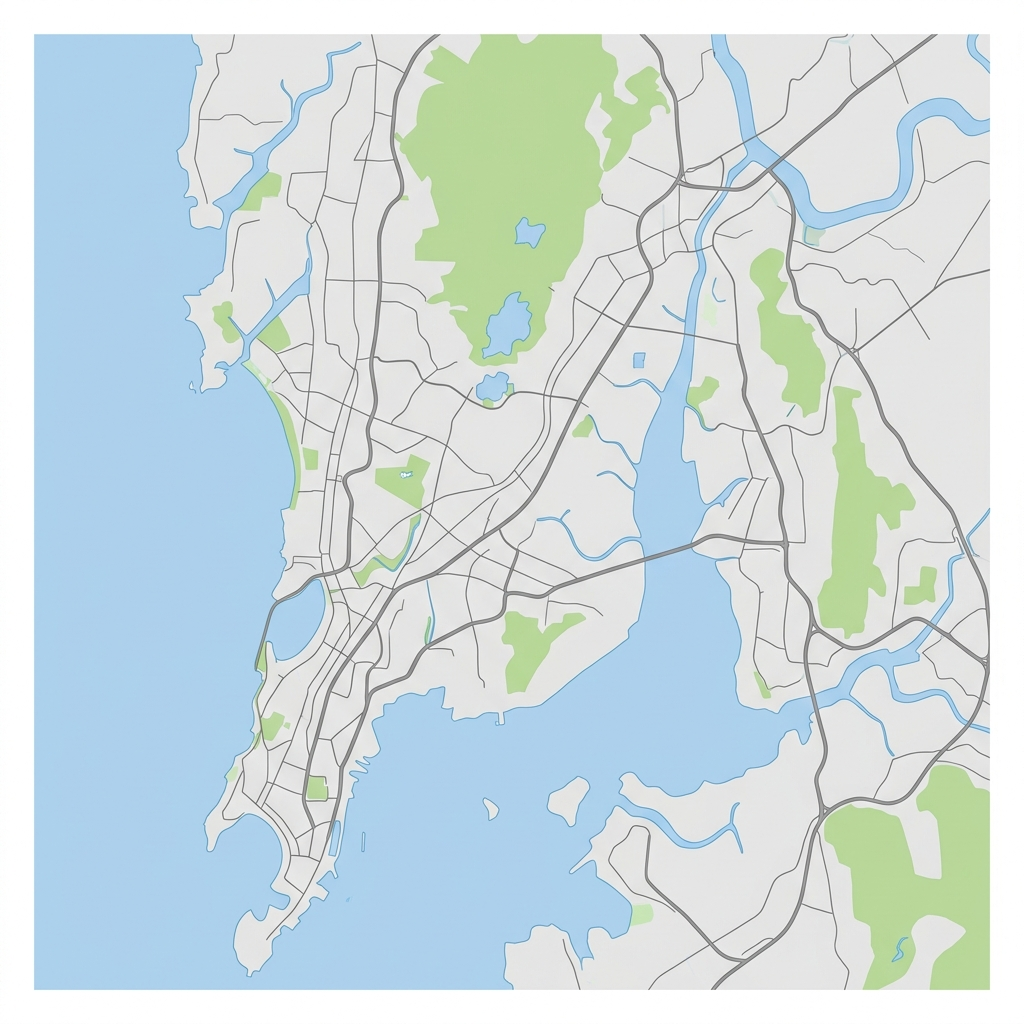
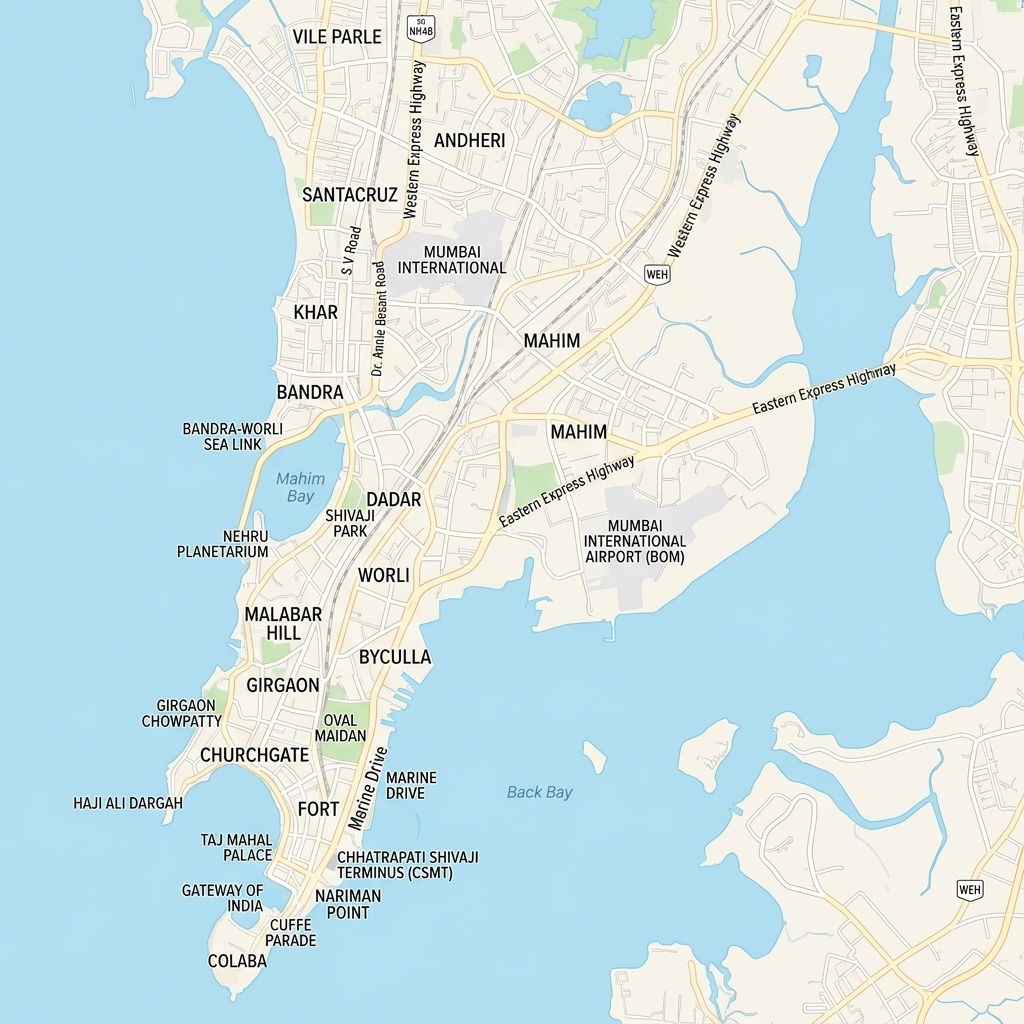
Update map widget on About page to use realistic Mumbai street map and match reference design details

diff --git a/style.css b/style.css
@@ -1535,59 +1535,65 @@ footer p {
   top: 45%;
   transform: translate(-50%, -50%);
   display: flex;
-  flex-direction: column;
   align-items: center;
+  justify-content: center;
 }
 
-.marker-avatar {
-  width: 44px;
-  height: 44px;
+.marker-avatar-wrapper {
+  width: 58px;
+  height: 58px;
   border-radius: 50%;
-  border: 2px solid #ffffff;
-  box-shadow: 0 4px 10px rgba(0,0,0,0.12);
+  background-color: var(--bg-neon); /* Bright lime green signature background */
+  border: 2px solid var(--bg-neon);
+  display: flex;
+  align-items: center;
+  justify-content: center;
+  overflow: hidden;
+  box-shadow: 0 0 0 1px rgba(0, 0, 0, 0.12), 0 4px 12px rgba(0, 0, 0, 0.18);
   z-index: 2;
+  position: relative;
+}
+
+.marker-avatar-wrapper img {
+  width: 75%;
+  height: 75%;
+  object-fit: contain;
+  display: block;
 }
 
 .marker-pulse {
   position: absolute;
-  width: 56px;
-  height: 56px;
+  width: 58px;
+  height: 58px;
   border-radius: 50%;
   background: rgba(184, 251, 1, 0.45);
   z-index: 1;
-  animation: pulseMarker 2s infinite;
-  top: -6px;
+  animation: pulseMarker 2.2s infinite cubic-bezier(0.16, 1, 0.3, 1);
+  pointer-events: none;
 }
 
 @keyframes pulseMarker {
-  0% { transform: scale(0.7); opacity: 0.9; }
-  100% { transform: scale(1.5); opacity: 0; }
+  0% { transform: scale(1); opacity: 0.85; }
+  100% { transform: scale(1.8); opacity: 0; }
 }
 
-.marker-bubble {
-  background: #050505;
-  color: #ffffff;
-  font-family: var(--font-sans);
-  font-size: 0.75rem;
-  font-weight: 700;
-  padding: 4px 10px;
-  border-radius: 10px;
-  margin-top: 6px;
-  box-shadow: 0 2px 6px rgba(0,0,0,0.2);
-  z-index: 3;
-  position: relative;
-  white-space: nowrap;
-}
-
-.marker-bubble::after {
-  content: '';
+.map-location-badge {
   position: absolute;
-  top: -4px;
-  left: 50%;
-  transform: translateX(-50%);
-  border-left: 4px solid transparent;
-  border-right: 4px solid transparent;
-  border-bottom: 4px solid #050505;
+  bottom: 16px;
+  left: 16px;
+  background: #ffffff;
+  color: #000000;
+  font-family: var(--font-sans);
+  font-size: 0.88rem;
+  font-weight: 700;
+  padding: 10px 20px;
+  border-radius: 40px;
+  box-shadow: 0 4px 16px rgba(0,0,0,0.08);
+  display: flex;
+  align-items: center;
+  z-index: 3;
+  border: 1px solid rgba(0,0,0,0.05);
+  letter-spacing: -0.01em;
 }
 
 /* Books Shelf Card Widget */

diff --git a/index.html b/index.html
@@ -217,8 +217,13 @@
                             <div class="map-bg"></div>
                             <div class="map-marker">
                                 <div class="marker-pulse"></div>
-                                <img src="assets/images/Icon.png" alt="Saidas B Map Pin" class="marker-avatar">
-                                <div class="marker-bubble">Mumbai, MH</div>
+                                <div class="marker-avatar-wrapper">
+                                    <img src="assets/images/Icon.png" alt="Saidas B Map Pin">
+                                </div>
+                            </div>
+                            <div class="map-location-badge">
+                                <i class="fa-solid fa-location-dot" style="color: #ff3b30; margin-right: 8px; font-size: 0.95rem;"></i>
+                                <span>Mumbai, MH</span>
                             </div>
                         </div>
                     </div>
